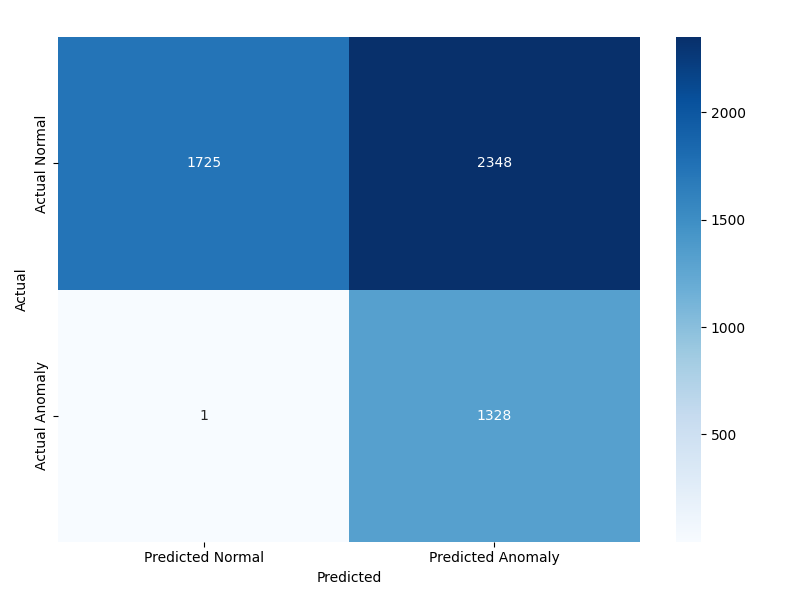
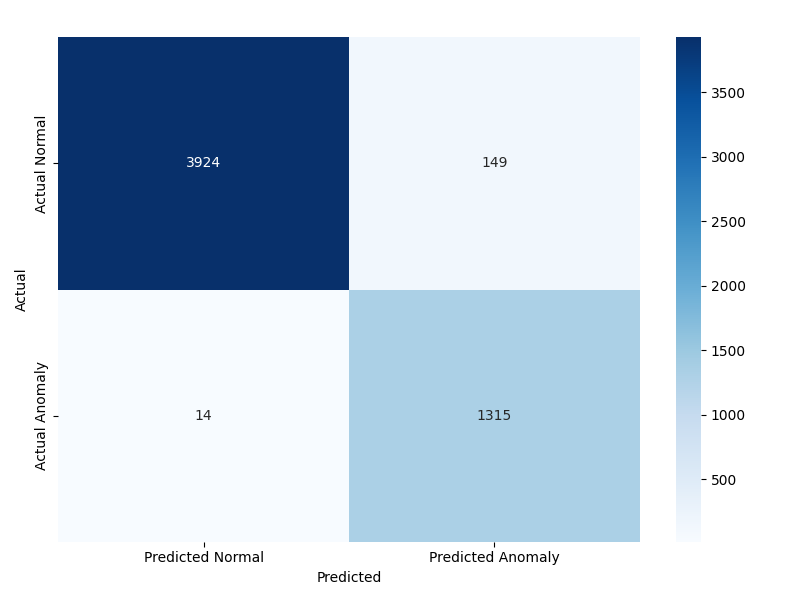
Show FedSAD and GSAD confusion matrices in the README
- README: confusion-matrix table for FedSAD and GSAD on CSE-CIC-IDS2018,
  UNSW-NB15 and GeNIS (frame data), added to the current Archived results
- results/GeNIS/frame/gsad/gsad_cm.png: new figure from re-evaluating the
  archived statistics (report identical to gsad_server.txt), drawn without a
  title like the other paper figures
- results/CSE-CIC-IDS2018/fedsad/fedsad_cm.png: the figure did not match
  fedsad_server.txt; use the matching title-less 1-minute window figure
- evaluate_gsad.py: add the core/ import path (it could not import gsad)
  and the GeNIS datasets

diff --git a/experiment/core/scripts/evaluate_gsad.py b/experiment/core/scripts/evaluate_gsad.py
@@ -1,11 +1,19 @@
-import pickle
-import numpy as np
-import pandas as pd
-from tqdm import tqdm
-from gsad import run_anomaly_detection
-from utils.metrics import save_report, plt_confusion_matrix
+"""Evaluate archived GSAD normal statistics (<result_path>/normal_stats.pkl).
+
+Writes gsad_server.txt and gsad_cm.png next to the statistics, so point
+--result_path at a copy when evaluating the archive in results/.
+"""
 import argparse
 import os
+from pathlib import Path
+import sys
+
+CORE = Path(__file__).resolve().parents[1]
+if str(CORE) not in sys.path:
+    sys.path.insert(0, str(CORE))
+
+from gsad import run_anomaly_detection
+from utils.metrics import save_report, plt_confusion_matrix
 
 if __name__=="__main__":
     parser = argparse.ArgumentParser()
@@ -18,7 +26,8 @@ if __name__=="__main__":
     parser.add_argument("--normal_file", type=str, default=None)
     parser.add_argument("--result_path", type=str, default="results/CSE-CIC-IDS2018/gsad")
     parser.add_argument("--eval_dataset", type=str, default="cic", 
-                        choices=["cic", "unsw"], help="Select dataset: cic or unsw")
+                        choices=["cic", "unsw", "genis", "genis_frame"],
+                        help="Select dataset: cic, unsw, genis or genis_frame")
     args = parser.parse_args()
 
     os.makedirs(args.result_path,exist_ok=True)
@@ -34,6 +43,14 @@ if __name__=="__main__":
         "unsw": {
             "normal_file": "UNSW_NB15_normal.csv",
             "anomaly_prefix": "UNSW_NB15_anomaly_"
+        },
+        "genis": {
+            "normal_file": "GeNIS_ae_normal.csv",
+            "anomaly_prefix": "GeNIS_anomaly_ae_"
+        },
+        "genis_frame": {
+            "normal_file": "GeNIS_frame_normal.csv",
+            "anomaly_prefix": "GeNIS_frame_anomaly_"
         }
     }
 

diff --git a/README.md b/README.md
@@ -219,6 +219,18 @@ results/
 
 Some archived file names predate the current naming (for example `taae/fedsad_kdd_weights.h5` and `fedavg/avg_*.h5`); they are kept as recorded.
 
+### FedSAD and GSAD confusion matrices
+
+Confusion matrices of FedSAD and GSAD alone on 1-minute windows (Anomaly is the positive class). FedSAD uses `--threshold-std` 0.25 (CIC2018), 5 (UNSW-NB15) and 1 (GeNIS).
+
+| Dataset | FedSAD (GSAD + TAAE) | GSAD |
+| --- | --- | --- |
+| CSE-CIC-IDS2018 | ![FedSAD CSE-CIC-IDS2018](results/CSE-CIC-IDS2018/fedsad/fedsad_cm.png) | ![GSAD CSE-CIC-IDS2018](results/CSE-CIC-IDS2018/gsad/gsad_cm.png) |
+| UNSW-NB15 | ![FedSAD UNSW-NB15](results/UNSW-NB15/fedsad/fedsad_cm.png) | ![GSAD UNSW-NB15](results/UNSW-NB15/gsad/gsad_cm.png) |
+| GeNIS (RNEP frame data) | ![FedSAD GeNIS](results/GeNIS/frame/fedsad_1min_k1.0/fedsad_cm.png) | ![GSAD GeNIS](results/GeNIS/frame/gsad/gsad_cm.png) |
+
+Per-window metrics, including inference time and detection delay, are in `window_metrics.json` under `results/<dataset>/window_sweep/<window>/` and `results/GeNIS/frame/fedsad_1min_k1.0/`; the window-size study is summarized in `results/window_sweep_summary.csv`.
+
 ### Reconstruction-error distributions
 
 The five panels below present reconstruction-error distributions for KDD99, InSDN, CSE-CIC-IDS2018, UNSW-NB15 and GeNIS. The caption and accompanying analysis are provided here as supplementary material. The figures link to the archived artifacts in `results/`.
